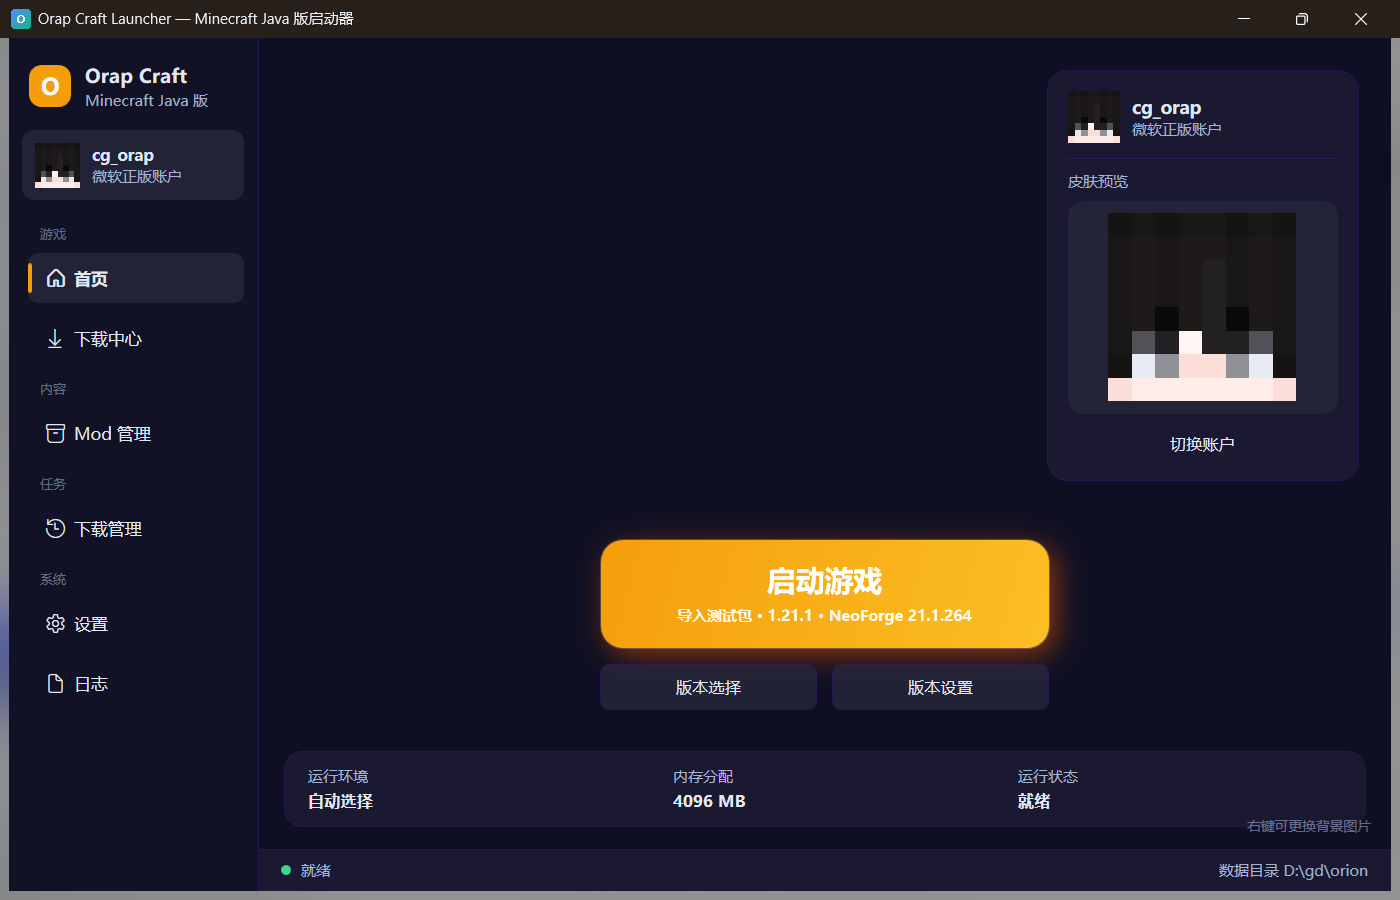
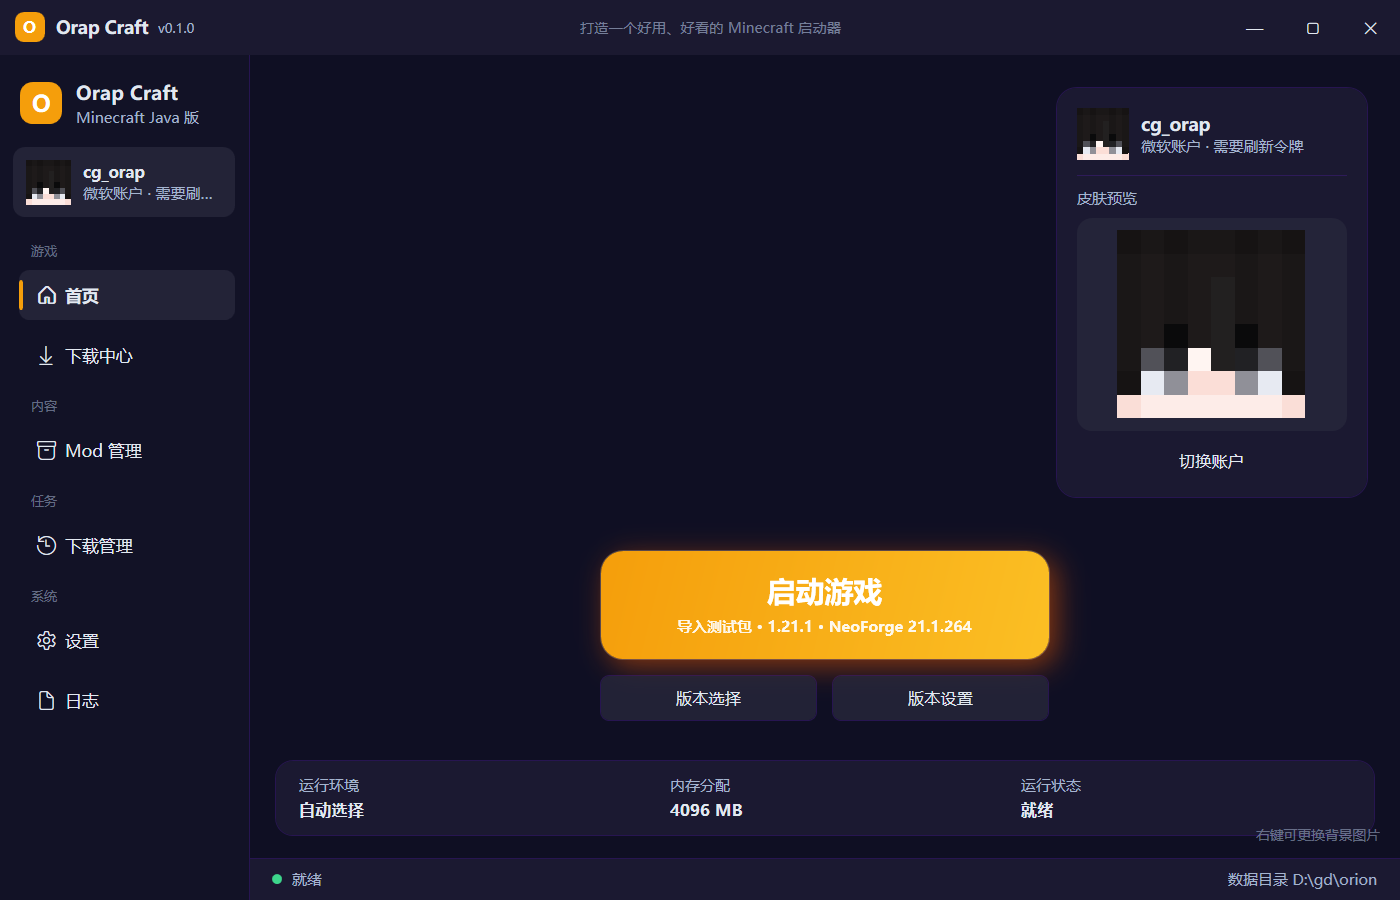
Custom title bar in the reference launcher's style
The native frame is replaced with WindowChrome and our own 44px caption: brand badge + name +
version on the left, the tagline centred, and custom minimise / maximise / close buttons on the
right that follow the palette (dark theme, hover highlight, red-free neutral look). Dragging and
resizing still go through WindowChrome, so snapping and multi-monitor behaviour are unchanged.

Verified: build + 136 tests, published EXE starts and shows the new caption.

diff --git a/src/Orion.App/MainWindow.xaml b/src/Orion.App/MainWindow.xaml
@@ -7,11 +7,19 @@
         Title="Orap Craft Launcher — Minecraft Java 版启动器"
         Height="780" Width="1240" MinHeight="600" MinWidth="900"
         WindowState="Maximized"
+        WindowStyle="None"
+        ResizeMode="CanResize"
         WindowStartupLocation="CenterScreen"
         Background="{DynamicResource WindowBg}"
         TextOptions.TextFormattingMode="Ideal"
         UseLayoutRounding="True"
-        SnapsToDevicePixels="True">
+        SnapsToDevicePixels="True"
+        xmlns:shell="clr-namespace:System.Windows.Shell;assembly=PresentationFramework">
+
+    <WindowChrome.WindowChrome>
+        <WindowChrome CaptionHeight="44" ResizeBorderThickness="6" GlassFrameThickness="0"
+                      CornerRadius="0" UseAeroCaptionButtons="False" />
+    </WindowChrome.WindowChrome>
 
     <Window.Resources>
         <!-- Navigation entry: rounded hover, accent bar and accent label when selected. -->
@@ -47,19 +55,56 @@
     </Window.Resources>
 
     <Grid>
+        <Grid.RowDefinitions>
+            <RowDefinition Height="44" />
+            <RowDefinition Height="*" />
+        </Grid.RowDefinitions>
+
+        <!-- ======================= custom title bar ======================= -->
+        <Grid Grid.Row="0" Background="{DynamicResource SurfaceBg}">
+            <Grid.ColumnDefinitions>
+                <ColumnDefinition Width="Auto" />
+                <ColumnDefinition Width="*" />
+                <ColumnDefinition Width="Auto" />
+            </Grid.ColumnDefinitions>
+
+            <StackPanel Grid.Column="0" Orientation="Horizontal" Margin="12,0,0,0" VerticalAlignment="Center">
+                <Border Width="24" Height="24" CornerRadius="7" Background="{DynamicResource AccentBrush}" Margin="0,0,9,0">
+                    <TextBlock Text="O" FontSize="13" FontWeight="Bold" Foreground="#FFFFFF"
+                               HorizontalAlignment="Center" VerticalAlignment="Center" />
+                </Border>
+                <TextBlock Text="Orap Craft" FontSize="14" FontWeight="SemiBold" VerticalAlignment="Center" />
+                <TextBlock Text="v0.1.0" FontSize="10.5" Margin="8,3,0,0" VerticalAlignment="Center"
+                           Foreground="{DynamicResource MutedTextBrush}" />
+            </StackPanel>
+
+            <TextBlock Grid.Column="1" Text="打造一个好用、好看的 Minecraft 启动器"
+                       HorizontalAlignment="Center" VerticalAlignment="Center" FontSize="11.5" Opacity="0.65"
+                       Foreground="{DynamicResource MutedTextBrush}" />
+
+            <StackPanel Grid.Column="2" Orientation="Horizontal" VerticalAlignment="Stretch" shell:WindowChrome.IsHitTestVisibleInChrome="True">
+                <Button x:Name="MinButton" Content="—" Style="{StaticResource CaptionButton}" Click="OnMinimize"
+                        AutomationProperties.AutomationId="CaptionMinimize" />
+                <Button x:Name="MaxButton" Content="▢" Style="{StaticResource CaptionButton}" Click="OnMaximize"
+                        AutomationProperties.AutomationId="CaptionMaximize" />
+                <Button x:Name="CloseButton" Content="✕" Style="{StaticResource CaptionButton}" Click="OnClose"
+                        AutomationProperties.AutomationId="CaptionClose" />
+            </StackPanel>
+        </Grid>
+
         <!-- layer 0: palette background (also what the translucent rail blends into) -->
-        <Rectangle Fill="{DynamicResource WindowBg}" />
+        <Rectangle Grid.Row="1" Fill="{DynamicResource WindowBg}" />
 
         <!-- layer 1: user wallpaper, shared by every page -->
-        <Image Source="{Binding Home.BackgroundImage}" Stretch="UniformToFill"
+        <Image Grid.Row="1" Source="{Binding Home.BackgroundImage}" Stretch="UniformToFill"
                RenderOptions.BitmapScalingMode="HighQuality"
                Visibility="{Binding Home.HasBackgroundImage, Converter={StaticResource BoolToVisibility}}" />
 
         <!-- layer 2: scrim so cards and text stay readable over any picture -->
-        <Rectangle Fill="{DynamicResource ScrimBrush}"
+        <Rectangle Grid.Row="1" Fill="{DynamicResource ScrimBrush}"
                    Visibility="{Binding Home.HasBackgroundImage, Converter={StaticResource BoolToVisibility}}" />
 
-        <Grid>
+        <Grid Grid.Row="1">
             <Grid.ColumnDefinitions>
                 <ColumnDefinition Width="200" />
                 <ColumnDefinition Width="*" />

diff --git a/src/Orion.App/Themes/Controls.xaml b/src/Orion.App/Themes/Controls.xaml
@@ -451,4 +451,28 @@
             </Setter.Value>
         </Setter>
     </Style>
+    <!-- window caption buttons of the custom title bar -->
+    <Style x:Key="CaptionButton" TargetType="Button">
+        <Setter Property="Foreground" Value="{DynamicResource MutedTextBrush}" />
+        <Setter Property="FontFamily" Value="Segoe UI" />
+        <Setter Property="FontSize" Value="12" />
+        <Setter Property="Width" Value="46" />
+        <Setter Property="Cursor" Value="Hand" />
+        <Setter Property="Template">
+            <Setter.Value>
+                <ControlTemplate TargetType="Button">
+                    <Border x:Name="Bd" Background="Transparent">
+                        <ContentPresenter HorizontalAlignment="Center" VerticalAlignment="Center" />
+                    </Border>
+                    <ControlTemplate.Triggers>
+                        <Trigger Property="IsMouseOver" Value="True">
+                            <Setter TargetName="Bd" Property="Background" Value="{DynamicResource SurfaceHover}" />
+                            <Setter Property="Foreground" Value="{DynamicResource TextBrush}" />
+                        </Trigger>
+                    </ControlTemplate.Triggers>
+                </ControlTemplate>
+            </Setter.Value>
+        </Setter>
+    </Style>
+
 </ResourceDictionary>

diff --git a/src/Orion.App/MainWindow.xaml.cs b/src/Orion.App/MainWindow.xaml.cs
@@ -35,4 +35,12 @@ public partial class MainWindow : Window
         nav.IsExpanded = !nav.IsExpanded;
         e.Handled = true;
     }
+
+    private void OnMinimize(object sender, System.Windows.RoutedEventArgs e)
+        => WindowState = WindowState.Minimized;
+
+    private void OnMaximize(object sender, System.Windows.RoutedEventArgs e)
+        => WindowState = WindowState == WindowState.Maximized ? WindowState.Normal : WindowState.Maximized;
+
+    private void OnClose(object sender, System.Windows.RoutedEventArgs e) => Close();
 }
